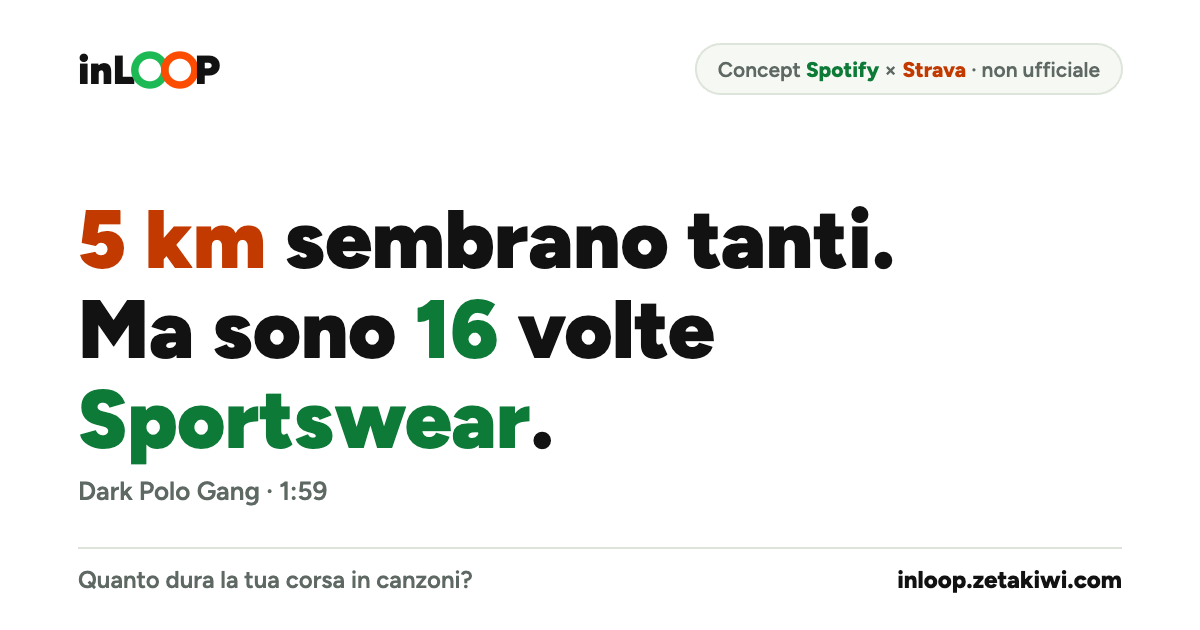
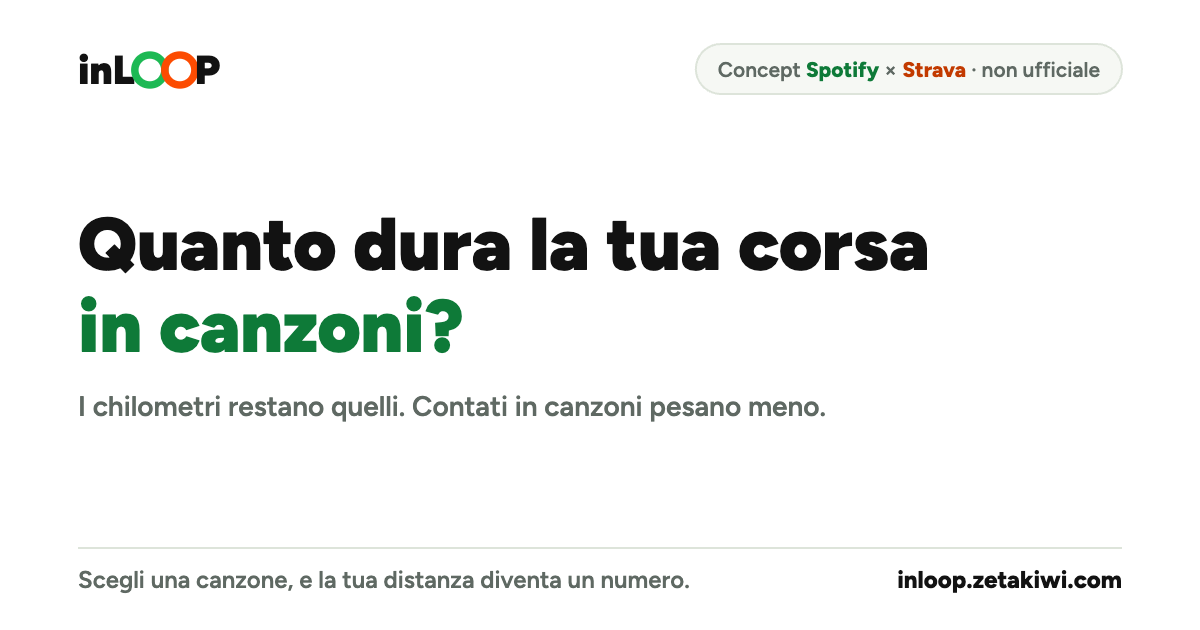
L'anteprima del link mostra la home vergine, e il resto del giro
- og.png rifatta: mandando il link su WhatsApp usciva Sportswear con
  16 volte, perche l'immagine era ferma a quando il claim stava in
  cima. Ora mostra la promessa, che e quello che uno trova aprendo.
- Privacy scende nel footer come scheda che si apre, e il link del
  footer la apre invece di limitarsi a saltarci sopra.
- Chi l'ha fatto torna una scheda col testo di prima, e il nome dentro
  porta su LinkedIn. Nel footer niente colonna Matteo: una firma
  sola, Sviluppato da Matteo De Marco.
- Le troppe richieste: ogni ricerca gia fatta resta in memoria per
  tutta la visita, quindi cancellare e ricercare non costa piu una
  chiamata.
- Dietro le quinte riletto voce per voce: la prima era diventata
  falsa (diceva 'prima della corsa, non dopo' mentre ora c'e la scheda
  Dati Strava) ed e stata riscritta. Aggiunte le tre cose successe
  dopo: bande nere, richieste, etichetta a frase. Da 11 a 14.

Changed region(s): [[0.0617, 0.3317, 0.7708, 0.573], [0.0617, 0.6032, 0.7092, 0.8143], [0.0617, 0.9048, 0.5858, 0.9349]]

diff --git a/index.html b/index.html
@@ -9,12 +9,12 @@
 <meta property="og:type" content="website">
 <meta property="og:site_name" content="inLOOP">
 <meta property="og:title" content="inLOOP · quanto dura la tua corsa in canzoni">
-<meta property="og:description" content="I chilometri restano quelli. Contati in canzoni pesano meno. Un concept su Spotify e Strava, di Matteo De Marco.">
+<meta property="og:description" content="Scegli una canzone e la tua distanza diventa un numero. Un concept su Spotify e Strava, di Matteo De Marco.">
 <meta property="og:url" content="https://inloop.zetakiwi.com">
 <meta property="og:image" content="https://inloop.zetakiwi.com/og.png">
 <meta property="og:image:width" content="1200">
 <meta property="og:image:height" content="630">
-<meta property="og:image:alt" content="5 km sembrano tanti. Ma sono 16 volte Sportswear.">
+<meta property="og:image:alt" content="Quanto dura la tua corsa in canzoni?">
 <meta property="og:locale" content="it_IT">
 <meta name="twitter:card" content="summary_large_image">
 <link rel="icon" href="/favicon.svg" type="image/svg+xml">
@@ -542,6 +542,8 @@
      ora sono schede che si aprono, chiuse di default. Il titolo resta visibile,
      quindi si sa cosa c'e dentro senza doverlo scorrere. */
   details.fold { padding: 0; }
+  .fold-body .nome { color: var(--green-text); font-weight: 800; text-decoration: none; border-bottom: 2px solid var(--green-soft); }
+  .fold-body .nome:hover { border-bottom-color: var(--green); }
   a.linkrow {
     display: flex; align-items: center; gap: 10px;
     padding: 18px 20px; text-decoration: none; color: var(--ink);
@@ -816,6 +818,15 @@
   }
   .f-cols a:hover { border-bottom-color: var(--green); }
   .f-cols a:focus-visible { outline: 2px solid var(--green); outline-offset: 3px; }
+  .f-priv { margin-top: 20px; }
+  .f-priv summary {
+    cursor: pointer; list-style: none; font-size: 13.5px; font-weight: 700; color: var(--ink);
+    border-bottom: 1.5px solid var(--line); padding-bottom: 2px; width: fit-content;
+  }
+  .f-priv summary::-webkit-details-marker { display: none; }
+  .f-priv summary:hover { border-bottom-color: var(--green); }
+  .f-priv p { margin: 10px 0 0; font-size: 12px; line-height: 1.6; color: var(--soft); }
+  .f-priv p b { color: var(--ink); }
   .f-legale {
     margin: 24px 0 0; padding-top: 16px; border-top: 1px solid var(--line);
     font-size: 11.5px; line-height: 1.65; color: var(--soft);
@@ -1052,25 +1063,33 @@
     fatto vero: nel 2023 <b>si erano davvero parlate</b>, col lettore di Spotify dentro la schermata
     di registrazione di Strava, poi l'integrazione è stata chiusa. Qui la direzione è un'altra:
     non i comandi del lettore dentro l'app di corsa, ma la musica come <b>unità di misura</b> della fatica.</p>
-    <p>L'ho fatto io, Matteo De Marco. Vengo dal design e dall'interfaccia, e mi occupo di AI e di come
-    si costruiscono prodotti con l'AI: questo progetto è il punto dove si incontrano con la musica e lo
-    sport. <b>Lavoro nell'AI e sono aperto a proposte.</b></p>
   </section>
 
-  <a class="about linkrow" id="chi" href="https://www.linkedin.com/in/matteodemarcoo" target="_blank" rel="noopener">
-    <span>Chi l'ha fatto</span><small>Matteo De Marco &middot; LinkedIn</small>
-    <svg width="13" height="13" viewBox="0 0 14 14" fill="none" aria-hidden="true">
-      <path d="M4 10 10 4M10 4H5.2M10 4v4.8" stroke="currentColor" stroke-width="1.8" stroke-linecap="round" stroke-linejoin="round"/>
-    </svg>
-  </a>
+  <details class="about fold" id="chi">
+    <summary><span>Chi l'ha fatto</span><small>Matteo De Marco</small></summary>
+    <div class="fold-body">
+    <p>L'ho fatto io,
+      <a class="nome" href="https://www.linkedin.com/in/matteodemarcoo" target="_blank" rel="noopener">Matteo De Marco</a>.
+      Vengo dal design e dall'interfaccia, e da lì mi porto dietro l'abitudine a guardare le cose dal
+      lato di chi le usa: quasi tutte le scelte qui sopra nascono da un'app che mi ha fatto arrabbiare,
+      non da una linea guida.</p>
+    <p>Mi occupo di AI e di come si costruiscono prodotti con l'AI, quello che oggi si chiama vibe coding
+    o AI building. Mi interessano il marketing e i dati, e mi interessano la musica e lo sport: questo
+    progetto è il punto in cui si incontrano.</p>
+    <p>Sto costruendo una serie di progetti come questo, che servono a due cose insieme: risolvere qualcosa
+    di piccolo per bene, e raccontare come ragiono. Ne pubblicherò altri.
+    <b>Lavoro nell'AI e sono aperto a proposte.</b></p>
+    </div>
+  </details>
 
   <details class="about fold" id="come">
-    <summary><span>Dietro le quinte</span><small>le cose che si notano solo se mancano</small></summary>
+    <summary><span>Dietro le quinte</span><small>quattordici cose che si notano solo se mancano</small></summary>
     <div class="fold-body">
     <ul class="details">
-      <li><b>Prima della corsa, non dopo.</b> Chiedere lo screenshot di Strava significava chiedere dati
-      già scritti dentro l'immagine, e produceva etichette che si contraddicevano da sole: il ritmo scelto
-      a mano contro il ritmo stampato nello screenshot.</li>
+      <li><b>Niente screenshot di Strava.</b> Chiederlo significava chiedere dati già scritti dentro
+      l'immagine, e produceva etichette che si contraddicevano da sole: il ritmo scelto a mano contro
+      quello stampato nello screenshot. I numeri della corsa fatta si ricopiano a mano, in tre campi
+      legati fra loro: ne compili due e il terzo si calcola.</li>
       <li><b>Una canzone, non una playlist.</b> Una playlist che non puoi esportare su Spotify è inutile.
       Una canzone in loop invece è un tap dentro qualsiasi app: il sito dà il numero e lo esegui da solo.</li>
       <li><b>Nessuna integrazione con Spotify, e non per pigrizia.</b> Da marzo 2025 per uscire dalla
@@ -1092,21 +1111,21 @@
       dito, e ai bordi c'erano zone morte perché il limite del dito non coincideva con quello del disegno.</li>
       <li><b>L'etichetta non finisce sotto Instagram.</b> In alto la storia ha la barra di avanzamento e in
       basso il campo «rispondi»: c'è un limite invalicabile a 260 pixel dai bordi, anche trascinando.</li>
+      <li><b>Le bande nere sulla foto scattata.</b> La fotocamera scrive l'orientamento come etichetta
+      invece di girare i pixel: il conto per riempire il riquadro veniva fatto sui numeri sbagliati e
+      restava del vuoto, che in una storia si vede nero. Ora la rotazione si cuoce nell'immagine prima
+      di disegnarla.</li>
+      <li><b>Chiedere meno all'archivio.</b> A ogni apertura partivano quattro ricerche sprecate per
+      copertine che poi buttavamo, e l'archivio di Apple taglia fuori chi fa troppe richieste al minuto:
+      compariva un finto errore di connessione. Ora quelle quattro non partono, ogni ricerca già fatta
+      resta in memoria, e prima di mostrare un errore il sito riprova da solo.</li>
+      <li><b>L'etichetta si legge come una frase.</b> Era spezzata in due colonne, col numero da una parte
+      e i dati dall'altra, e l'occhio doveva ricucirla. Ora è una riga sola dall'alto, col numero che resta
+      il pezzo più grosso e quindi si vede lo stesso da lontano.</li>
       <li><b>Le copertine si caricano in un modo preciso.</b> Un'immagine presa da un altro sito
       «contamina» il disegno e blocca il salvataggio del PNG: va chiesta dichiarando l'origine. Provato:
       senza quella riga il file non esce, e l'errore arriva solo al momento di salvare.</li>
     </ul>
-    </div>
-  </details>
-
-  <details class="about fold" id="privacy">
-    <summary><span>Privacy</span><small>non raccogliamo niente</small></summary>
-    <div class="fold-body">
-    <p>Niente account, niente cookie, niente tracciamento, nessun dato raccolto: non c'&egrave;
-    un server nostro a cui mandare qualcosa.</p>
-    <p>La ricerca delle canzoni interroga l'archivio pubblico di Apple direttamente dal tuo
-    browser. <b>La tua foto non lascia mai il telefono</b>: l'immagine della storia si
-    costruisce e si salva sul tuo dispositivo.</p>
     </div>
   </details>
 
@@ -1125,11 +1144,18 @@
         <a href="#privacy">Privacy</a>
       </div>
       <div>
-        <h4>Matteo</h4>
-        <a href="https://www.linkedin.com/in/matteodemarcoo" target="_blank" rel="noopener">Chi l'ha fatto</a>
-        <a href="https://www.linkedin.com/in/matteodemarcoo" target="_blank" rel="noopener">LinkedIn</a>
+        <h4>Sviluppato da</h4>
+        <a href="https://www.linkedin.com/in/matteodemarcoo" target="_blank" rel="noopener">Matteo De Marco</a>
       </div>
+
     </div>
+    <details class="f-priv" id="privacy">
+      <summary>Privacy &middot; non raccogliamo niente</summary>
+      <p>Niente account, niente cookie, niente tracciamento, nessun dato raccolto: non c'&egrave; un
+      server nostro a cui mandare qualcosa. La ricerca delle canzoni interroga l'archivio pubblico di
+      Apple direttamente dal tuo browser. <b>La tua foto non lascia mai il telefono</b>: l'immagine
+      della storia si costruisce e si salva sul tuo dispositivo.</p>
+    </details>
     <p class="f-legale">Concept non ufficiale. Non affiliato a Spotify n&eacute; a Strava: i loro nomi e i loro
     colori sono citati come materiale dell'esercizio.<br>
     Niente account, niente tracciamento, nessun dato raccolto: la tua foto non lascia il telefono.<br>
@@ -1142,6 +1168,14 @@
   const $ = id => document.getElementById(id);
 
   /* La barra si riduce al solo logo appena scorri. */
+  /* Un link del footer che punta a una scheda chiusa la apre: altrimenti si
+     salta li e non si vede niente. */
+  document.querySelectorAll('.f-cols a[href^="#"]').forEach(a =>
+    a.addEventListener('click', () => {
+      const t = document.querySelector(a.getAttribute('href'));
+      if (t && t.tagName === 'DETAILS') t.open = true;
+    }));
+
   const topbar = document.querySelector('.topbar');
   let topbarTick = false;
   window.addEventListener('scroll', () => {
@@ -1303,8 +1337,14 @@
   }
 
   let ricercaTimer = null, ricercaN = 0;
+  /* Ogni ricerca gia fatta resta in memoria per tutta la visita: tornare
+     indietro con la cancellina, o ricercare la stessa cosa, non costa piu
+     una chiamata. E' il taglio piu grosso al numero di richieste. */
+  const cacheRicerche = new Map();
   async function cercaSuApple(q, ritenta) {
     const mia = ++ricercaN;
+    const chiave = q.toLowerCase();
+    if (cacheRicerche.has(chiave)) { lista = cacheRicerche.get(chiave); renderResults(); return; }
     try {
       const r = await fetch('https://itunes.apple.com/search?media=music&entity=song&limit=12&country=IT&term=' +
         encodeURIComponent(q));
@@ -1329,6 +1369,7 @@
           w: x.artistName,
           art: x.artworkUrl100 ? x.artworkUrl100.replace('100x100bb', '600x600bb') : null
         }));
+      cacheRicerche.set(chiave, lista);
       renderResults();
     } catch (e) {
       if (mia !== ricercaN) return;
